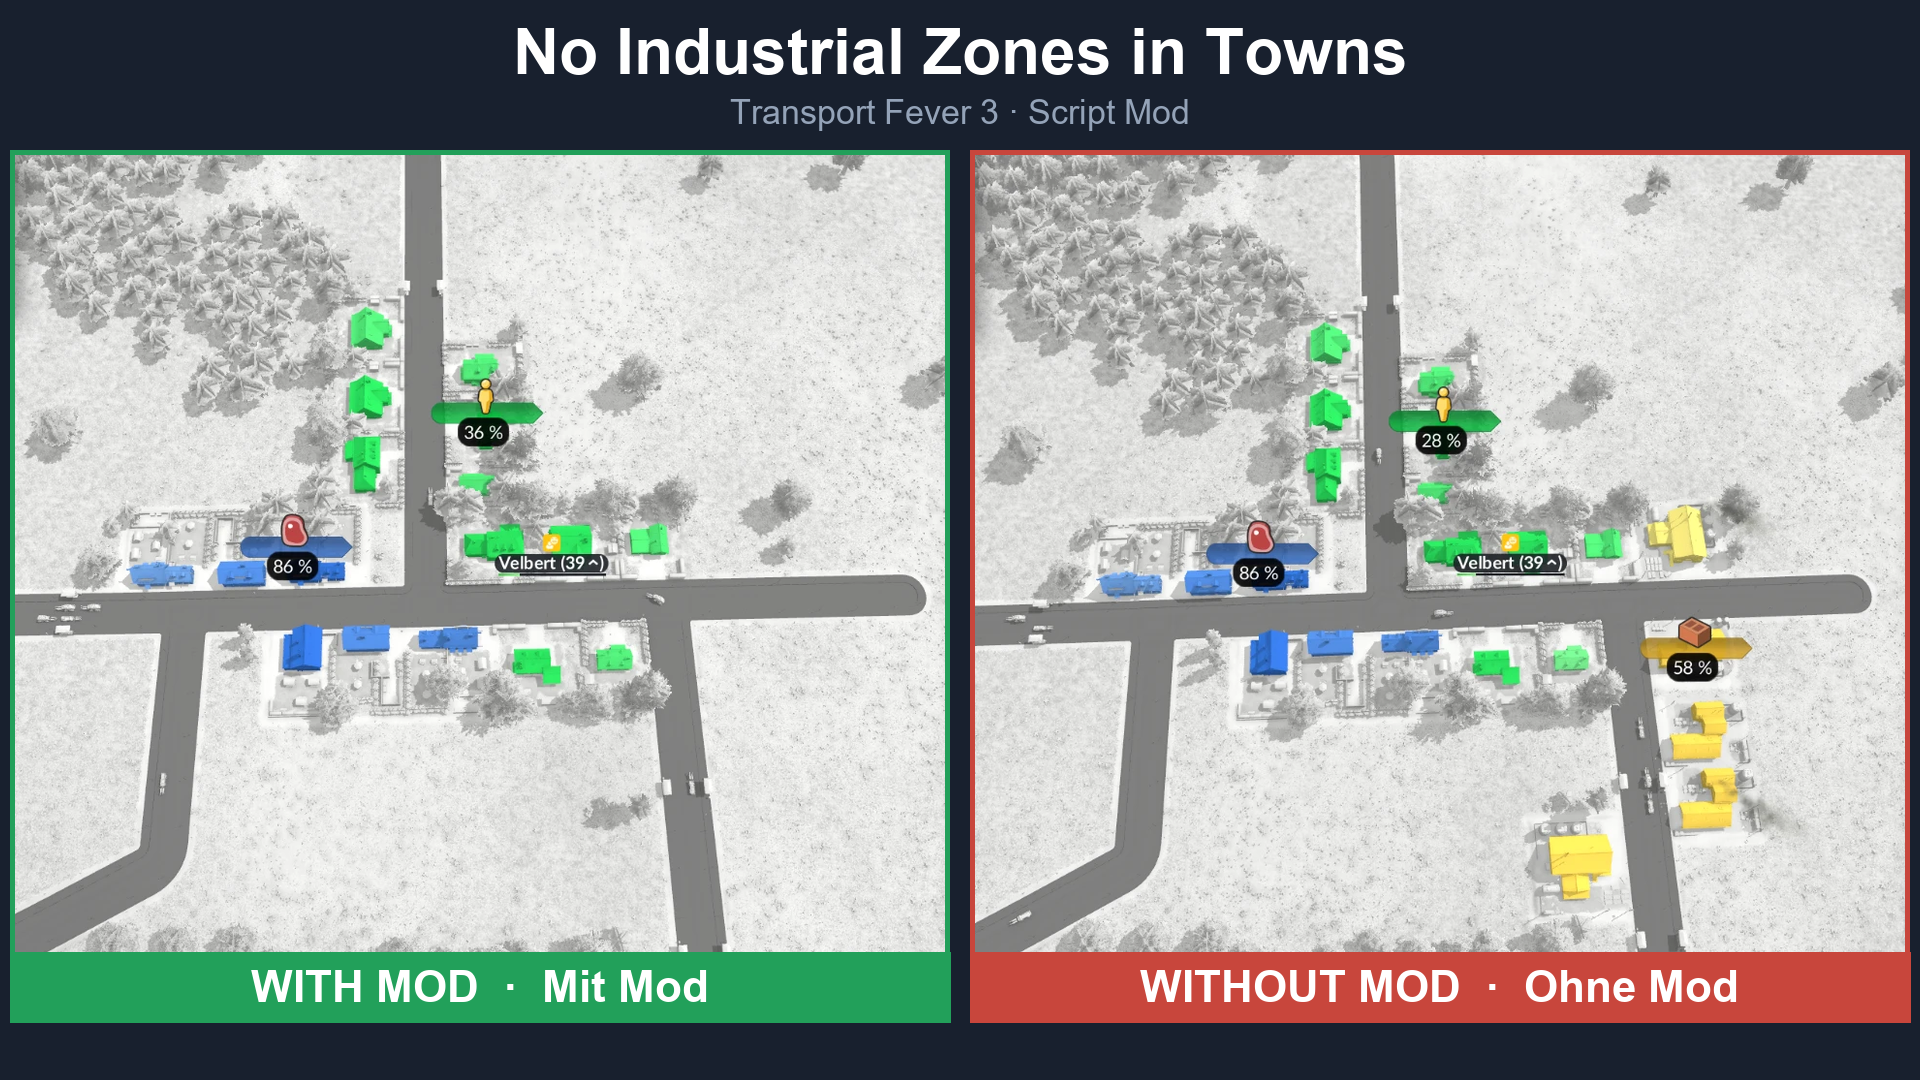
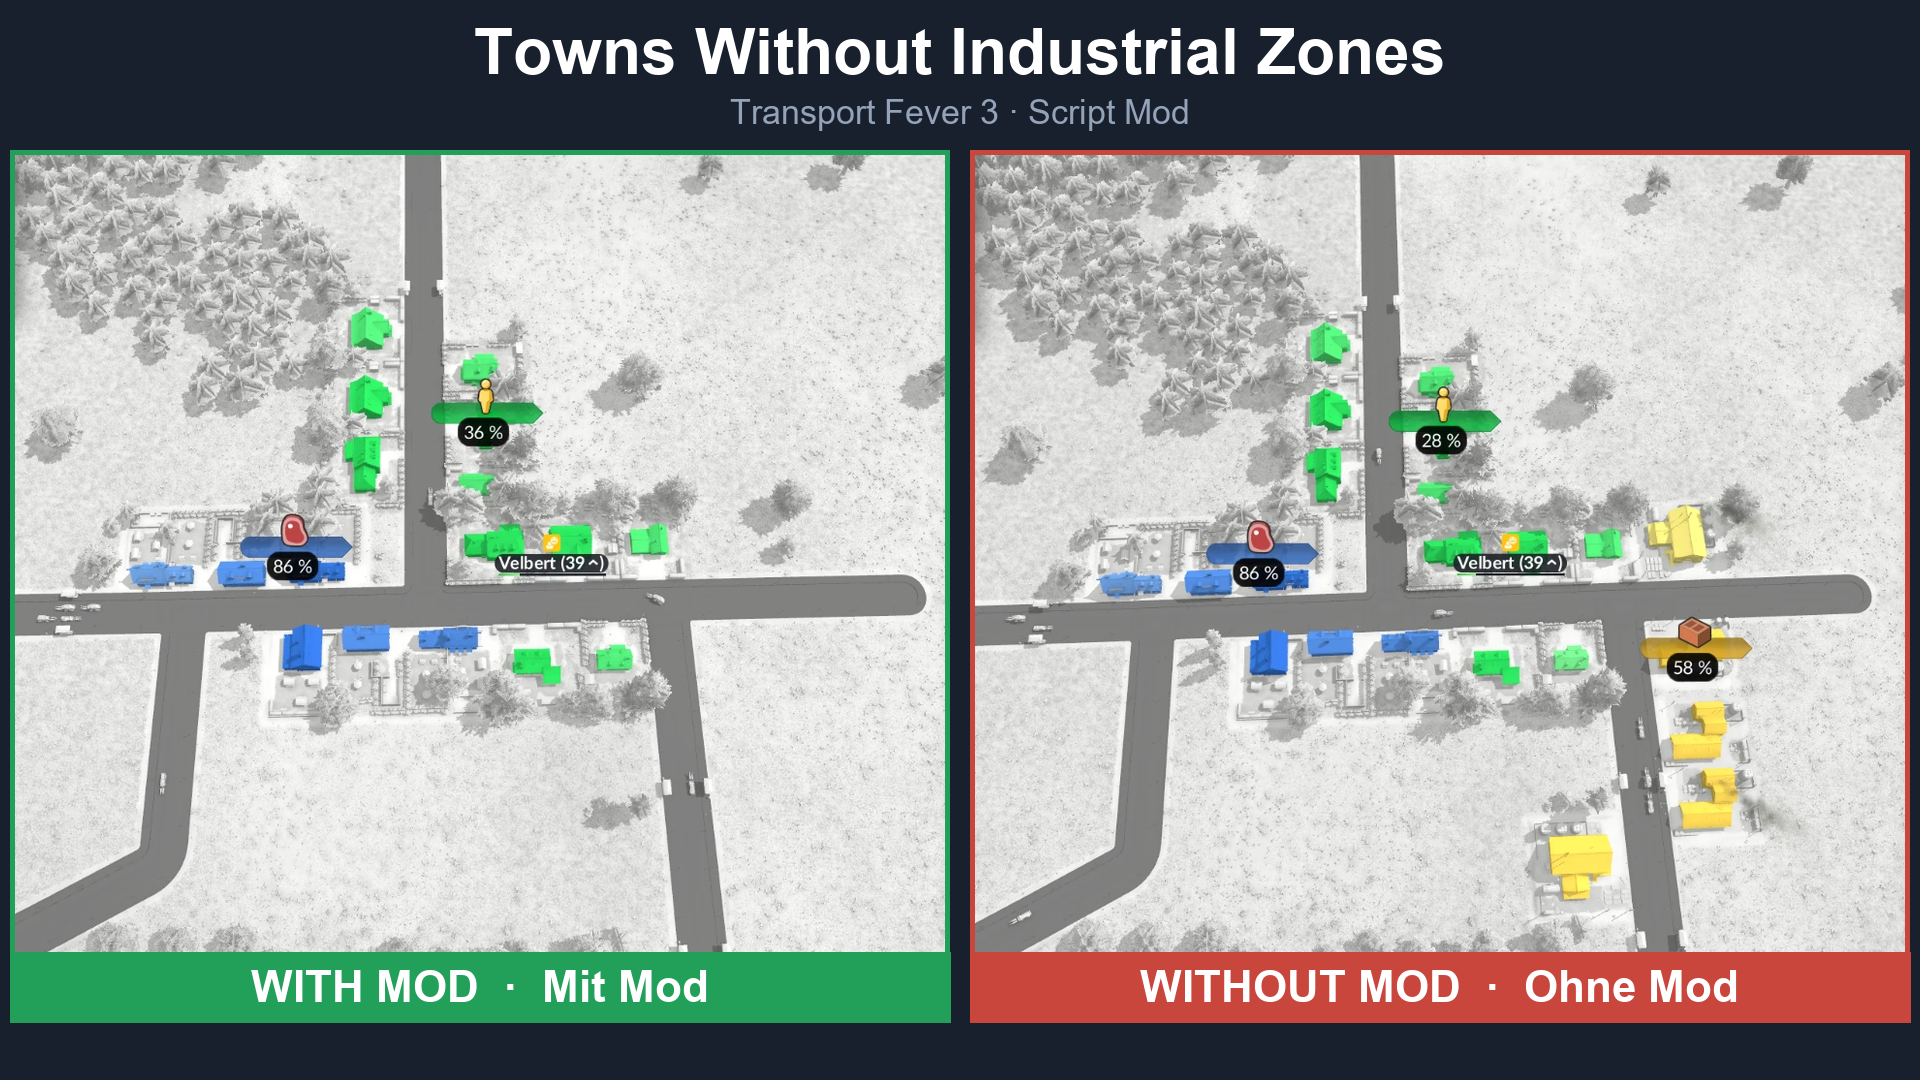
Rename the mods to Towns Without Industrial Zones
The previous name was already taken by an unpublished entry on mod.io.
New display names, descriptions, README and preview images.

Changed region(s): [[0.25, 0.0, 0.75, 0.0917]]

diff --git a/README.md b/README.md
@@ -1,4 +1,4 @@
-# No Industrial Zones in Towns (Transport Fever 3)
+# Towns Without Industrial Zones (Transport Fever 3)
 
 ![With mod / without mod](preview.png)
 
@@ -36,9 +36,9 @@ The mod sets the industrial capacity of every town to zero **permanently in the 
 
 ![Before and after the undo mod](preview_undo.png)
 
-If you already removed the mod from a savegame and the game crashes, use `undo_no_town_industry_zones` ("Undo: No Industrial Zones in Towns"). It restores the industrial capacity of the towns and rebuilds the industrial zones in their initial size.
+If you already removed the mod from a savegame and the game crashes, use `undo_no_town_industry_zones` ("Undo: Towns Without Industrial Zones"). It restores the industrial capacity of the towns and rebuilds the industrial zones in their initial size.
 
-1. Load the savegame, deactivate "No Industrial Zones in Towns" and activate the Undo mod.
+1. Load the savegame, deactivate "Towns Without Industrial Zones" and activate the Undo mod.
 2. Let the game run for about a minute. Do not pause.
 3. Save the game.
 4. Load it without the Undo mod. Everything runs normal again.
@@ -88,9 +88,9 @@ Der Mod setzt die Industriekapazität jeder Stadt **dauerhaft im Spielstand** au
 
 ### Undo-Mod (Spielstand reparieren)
 
-Hast du den Mod schon aus einem Spielstand entfernt und das Spiel stürzt ab, nutze `undo_no_town_industry_zones` („Undo: No Industrial Zones in Towns“). Er stellt die Industriekapazität der Städte wieder her und baut die Industriezonen in der Anfangsgröße neu auf.
+Hast du den Mod schon aus einem Spielstand entfernt und das Spiel stürzt ab, nutze `undo_no_town_industry_zones` („Undo: Towns Without Industrial Zones“). Er stellt die Industriekapazität der Städte wieder her und baut die Industriezonen in der Anfangsgröße neu auf.
 
-1. Spielstand laden, „No Industrial Zones in Towns“ deaktivieren und den Undo-Mod aktivieren.
+1. Spielstand laden, „Towns Without Industrial Zones“ deaktivieren und den Undo-Mod aktivieren.
 2. Das Spiel etwa eine Minute laufen lassen. Nicht pausieren.
 3. Spiel speichern.
 4. Den Spielstand ohne den Undo-Mod laden. Alles läuft wieder normal.
